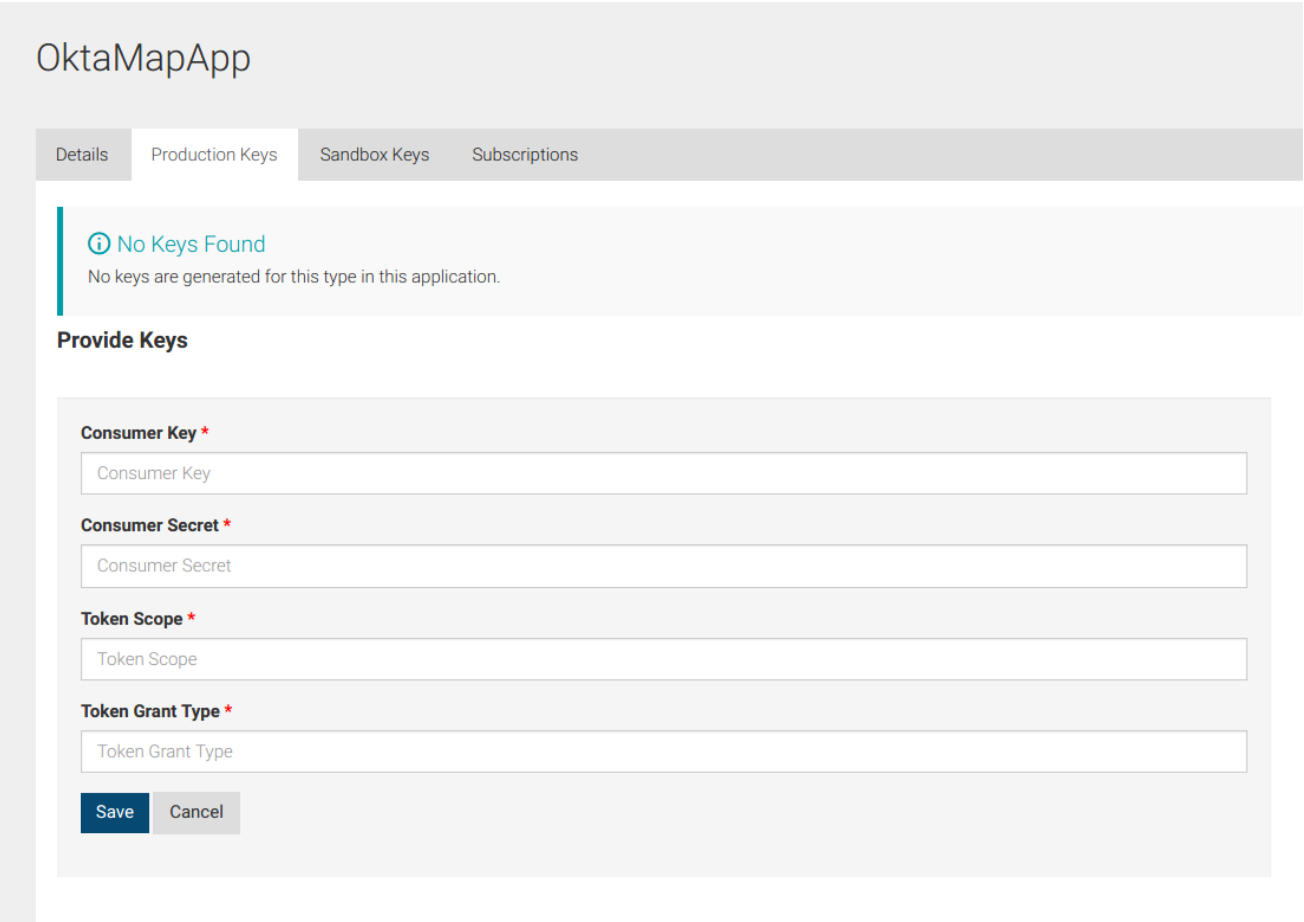
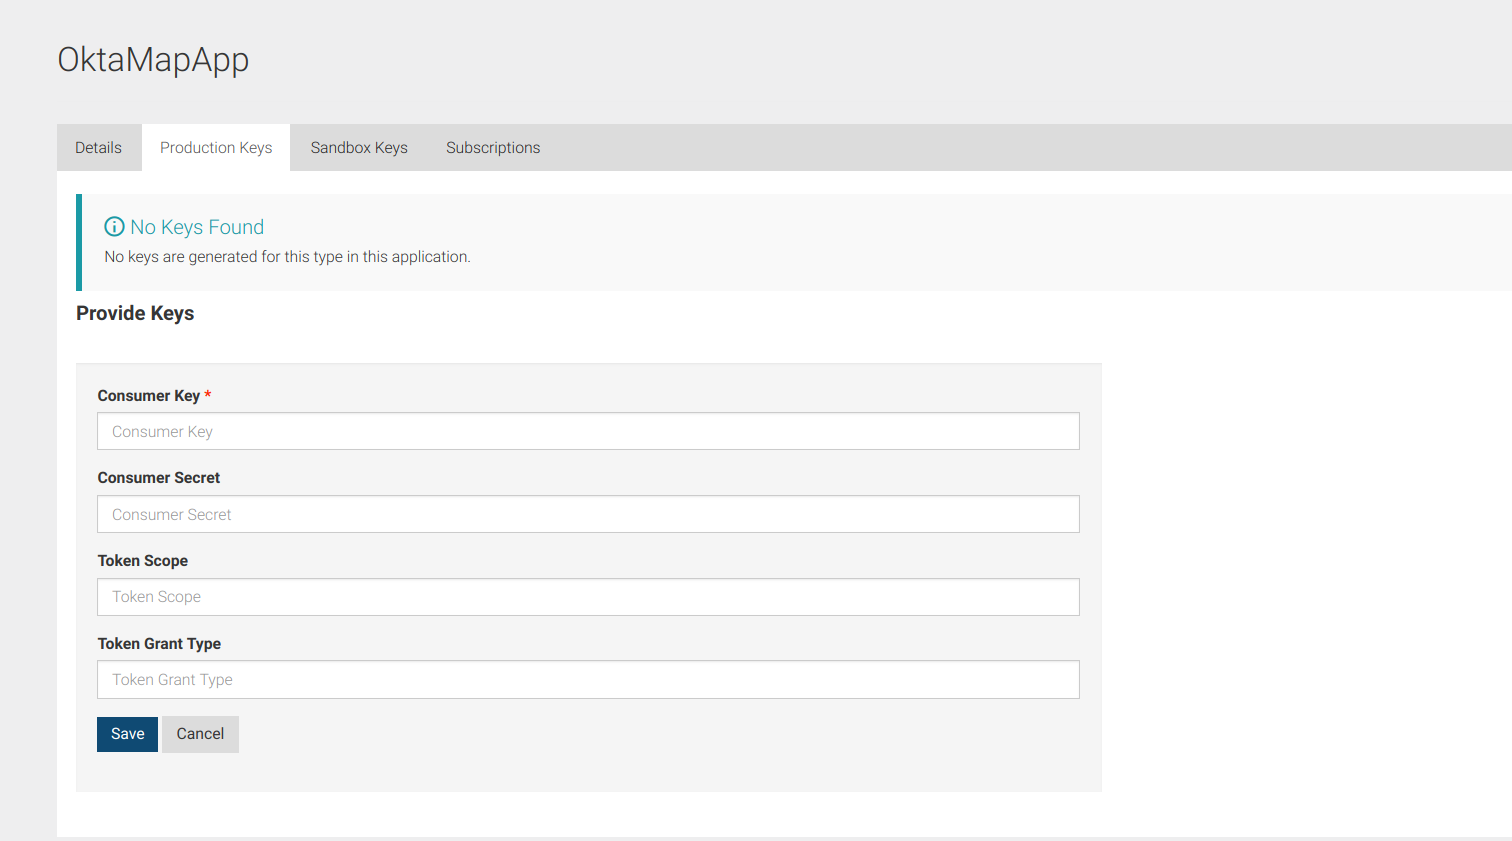
Make client secret as optional parameter

diff --git a/src/main/java/org/wso2/okta/client/OktaOAuthClient.java b/src/main/java/org/wso2/okta/client/OktaOAuthClient.java
@@ -421,7 +421,7 @@ public class OktaOAuthClient extends AbstractKeyManager {
         }
         String clientName = oAuthApplication.getClientName();
         if (oAuthApplication.getClientId() == null || oAuthApplication.getClientSecret() == null) {
-            throw new APIManagementException(String.format("Consumer key or Consumer Secret missing for the " +
+            log.error(String.format("Consumer key or Consumer Secret missing for the " +
                     "Application: %s", clientName));
         }
         tokenRequest.setClientId(oAuthApplication.getClientId());

diff --git a/docs/config.md b/docs/config.md
@@ -216,6 +216,8 @@ You have connected WSO2 API Manager with a third-party Okta authorization server
     
          Fill out the required parameters and click Save. You will be redirected to the page that has application and access token details.
          
+         >>**Note :** If you haven't provide consumer secret, the access token will not be generated.
+         
          >>**Note :** Please make a note of this Consumer Secret and Access Token values, as it will be the only one time that you will be able to view it.
 
     2. CURL command :
